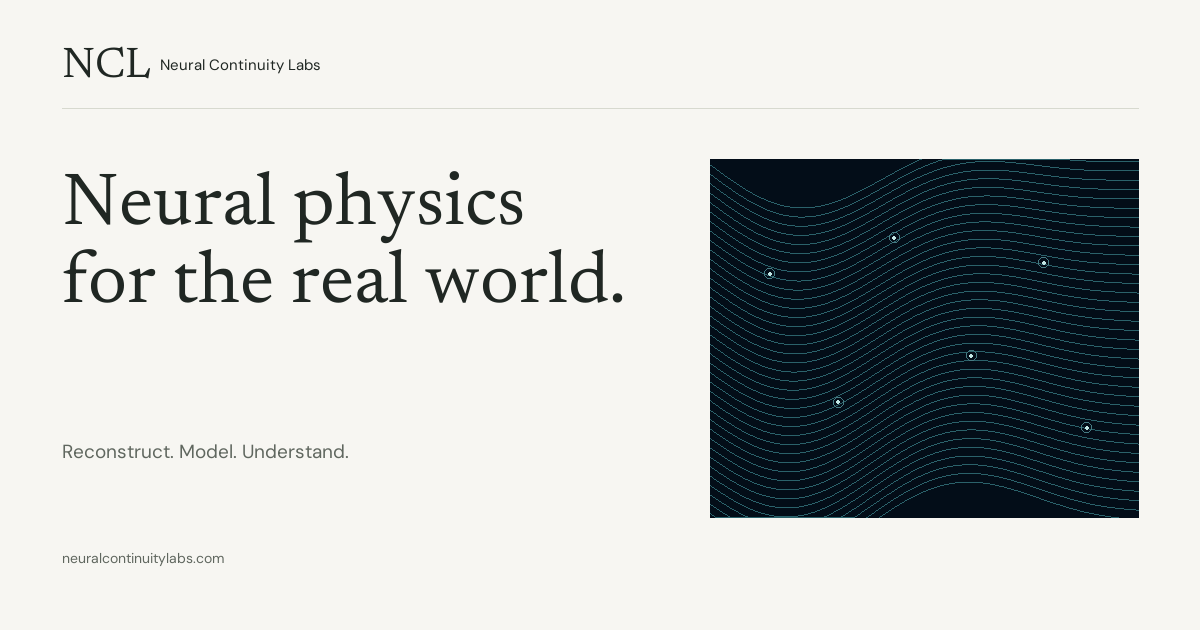
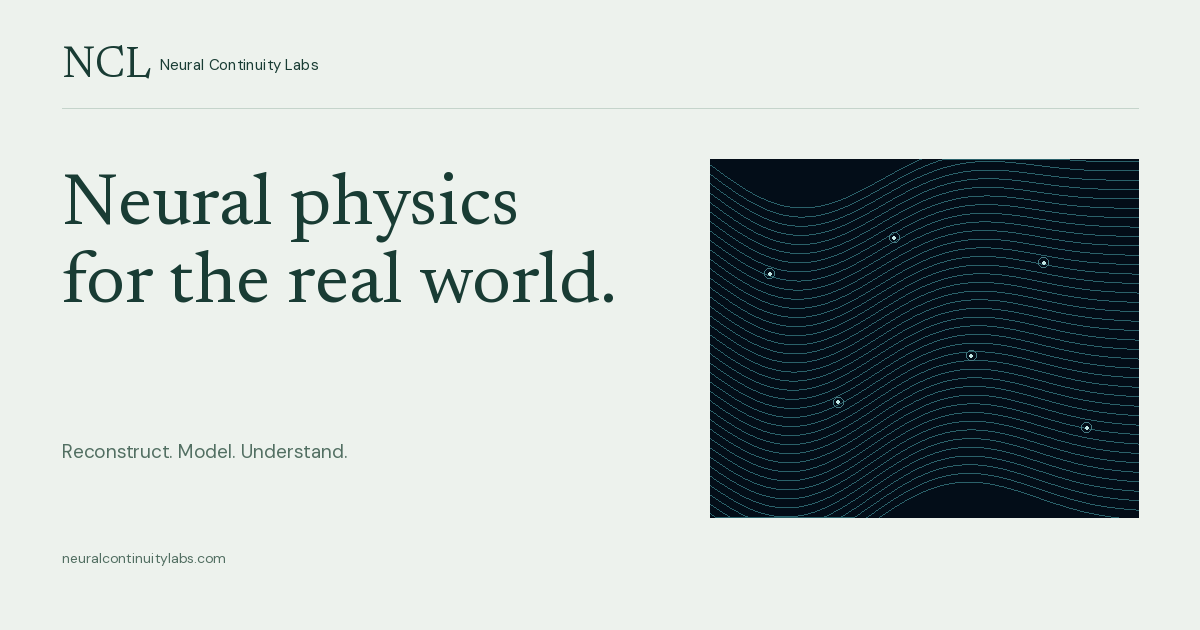
Apply selected Mineral design across the NCL website

diff --git a/index.html b/index.html
@@ -1,6 +1,6 @@
 <!doctype html>
 <!-- Generated by npm run build. Edit templates/ or content/notes/. -->
-<html lang="en"><head><meta charset="utf-8"><meta name="viewport" content="width=device-width, initial-scale=1"><title>Neural Continuity Labs | Neural physics for the real world</title><meta name="description" content="We develop neural methods to reconstruct, model, and understand physical systems."><meta name="theme-color" content="#F7F6F2"><link rel="canonical" href="https://neuralcontinuitylabs.com/"><link rel="icon" href="/favicon.svg" type="image/svg+xml">
+<html lang="en"><head><meta charset="utf-8"><meta name="viewport" content="width=device-width, initial-scale=1"><title>Neural Continuity Labs | Neural physics for the real world</title><meta name="description" content="We develop neural methods to reconstruct, model, and understand physical systems."><meta name="theme-color" content="#EDF2ED"><link rel="canonical" href="https://neuralcontinuitylabs.com/"><link rel="icon" href="/favicon.svg" type="image/svg+xml">
 <link rel="alternate" hreflang="en" href="https://neuralcontinuitylabs.com/?lang=en">
 <link rel="alternate" hreflang="fr" href="https://neuralcontinuitylabs.com/?lang=fr">
 <link rel="alternate" hreflang="de" href="https://neuralcontinuitylabs.com/?lang=de">
@@ -25,7 +25,7 @@
     </div>
   </div>
 </section>
-<div class="wrap">
+<div class="field-wrap">
   <div
     class="field-shell"
     role="img"
@@ -43,14 +43,17 @@
     />
     <canvas id="field" aria-hidden="true"></canvas>
   </div>
+</div>
+<div class="wrap">
   <section class="lab-notes" aria-labelledby="notes-title">
     <div>
       <h2 id="notes-title" data-i18n="notes.title">Notes from the Lab</h2>
-      <p class="section-intro" data-i18n="notes.intro">
-        Questions, experiments, and things we are learning.
-      </p>
+
     </div>
-    <ol class="note-list"><li class="note-row"><a href="/notes/why-ncl-exists/"><div lang="en"><h3>Neural Continuity Labs</h3><p>Discovering what neural physics looks like, from the bottom up.</p></div><span class="arrow" aria-hidden="true">↗</span></a></li><li class="note-row"><a href="/notes/physics-as-neural-turing-computation/"><div lang="en"><h3>Neural Field Computations</h3><p>Learning how a physical field changes through local updates.</p></div><span class="arrow" aria-hidden="true">↗</span></a></li><li class="note-row"><a href="/notes/neural-continuity/"><div lang="en"><h3>Neural Continuity</h3><p>A continuous description of the world, represented and learned on finite hardware.</p></div><span class="arrow" aria-hidden="true">↗</span></a></li></ol>
+    <div>
+      <ol class="note-list"><li class="note-row"><a href="/notes/can-a-machine-rediscover-keplers-laws/"><div lang="en"><h3>Can neural nets discover physical laws?</h3><p>Planetary observations offer a first test of discovering laws from limited data.</p></div><span class="arrow" aria-hidden="true">↗</span></a></li></ol>
+      <a class="notebook-link" href="/notes/" data-i18n="notes.all">All notes</a>
+    </div>
   </section>
 </div>
 </main><footer class="footer"><div class="wrap"><div><p class="footer-brand">Neural Continuity Labs</p><p class="footer-context" data-i18n="footer.context">Independent research in neural methods for physical systems.</p><p class="footer-context" data-i18n="footer.place">Paris-Saclay, France · Inria Startup Studio ecosystem</p></div><div class="footer-partners"><p class="section-label">IN MATURATION WITH</p><div class="partner-logos"><a href="https://www.inria.fr/" aria-label="Inria"><img src="/assets/partners/inria.svg" alt="Inria" width="283" height="83"></a><a href="https://www.universite-paris-saclay.fr/" aria-label="Université Paris-Saclay"><img src="/assets/partners/paris-saclay.svg" alt="Université Paris-Saclay" width="190" height="67"></a></div></div><div class="footer-right"><a class="footer-email" href="mailto:contact@neuralcontinuitylabs.com">contact@neuralcontinuitylabs.com</a><div class="footer-links"><span>© 2026 NCL</span><a href="/legal.html" data-i18n="footer.legal">Legal notice</a><a href="/legal.html#privacy" data-i18n="footer.privacy">Privacy</a></div></div></div></footer></body></html>

diff --git a/styles.css b/styles.css
@@ -21,11 +21,11 @@
 }
 :root {
   color-scheme: light;
-  --paper: #f7f6f2;
-  --ink: #202723;
-  --muted: #60675f;
-  --line: #d7d9cf;
-  --accent: #375d53;
+  --paper: #edf2ed;
+  --ink: #193c34;
+  --muted: #526f62;
+  --line: #c5d4cb;
+  --accent: #286a52;
   --night: #030d18;
   --serif: Newsreader, Georgia, serif;
   --sans: "DM Sans", Arial, sans-serif;
@@ -530,7 +530,7 @@ h1 {
 .prose pre {
   font: 12px/1.7 var(--mono);
   padding: 22px;
-  background: #eeeee7;
+  background: #e4ebe5;
   overflow: auto;
 }
 .prose code {
@@ -639,7 +639,7 @@ textarea:focus {
   color: #9b3c32;
 }
 .status.ok {
-  color: #375d53;
+  color: #286a52;
 }
 .legal-body {
   max-width: 700px;
@@ -1019,4 +1019,40 @@ textarea:focus {
     width: 98px;
     max-width: 98px;
   }
+}
+
+/* Mineral: compact introduction, panoramic field, one featured research note. */
+.brand .mark { color: var(--accent); }
+.text-link { color: var(--accent); border-color: currentColor; }
+.hero { padding: 44px 0 38px; }
+.hero-inner { grid-template-columns: 1.3fr 1fr; gap: 70px; align-items: start; }
+.hero h1 { font-size: clamp(49px, 4.3vw, 64px); line-height: 1.04; max-width: 680px; }
+.hero-copy { display: flex; align-items: end; justify-content: space-between; gap: 30px; padding: 4px 0 0; }
+.hero-copy p { font-size: 14px; line-height: 1.75; color: var(--ink); max-width: 300px; margin: 0; }
+.hero-copy .text-link { flex-shrink: 0; font-size: 11px; gap: 16px; }
+.field-wrap { width: min(1440px, 100%); margin-inline: auto; }
+.field-wrap .field-shell { aspect-ratio: 2.38; }
+.lab-notes { padding: 46px 0 52px; }
+.lab-notes h2 { font: 10px/1.6 var(--mono); letter-spacing: .08em; text-transform: uppercase; color: var(--muted); }
+.lab-notes .note-row { border: 0; }
+.lab-notes .note-row > a { display: block; padding: 0; }
+.lab-notes .note-row h3 { font-size: 35px; max-width: 620px; }
+.lab-notes .note-row .arrow { display: none; }
+.notebook-link { display: inline-block; font-size: 11px; color: var(--accent); margin-top: 16px; }
+@media (min-width: 1600px) { .hero { padding-top: 50px; } }
+@media (max-width: 1100px) {
+  .hero-inner { gap: 40px; }
+  .hero-copy { display: block; }
+  .hero-copy p { max-width: 350px; }
+  .hero-copy .text-link { margin-top: 18px; }
+}
+@media (max-width: 760px) {
+  .hero { padding: 34px 0 32px; }
+  .hero h1 { font-size: clamp(46px, 10.5vw, 65px); }
+  .hero-copy { padding-top: 23px; }
+  .hero-copy p { font-size: 15px; max-width: 390px; }
+  .field-wrap .field-shell { margin: 0; aspect-ratio: 1.35; }
+  .lab-notes { padding: 34px 0 40px; }
+  .lab-notes h2 { margin-bottom: 23px; }
+  .lab-notes .note-row h3 { font-size: 31px; }
 }

diff --git a/notes/can-a-machine-rediscover-keplers-laws/index.html b/notes/can-a-machine-rediscover-keplers-laws/index.html
@@ -1,6 +1,6 @@
 <!doctype html>
 <!-- Generated by npm run build. Edit templates/ or content/notes/. -->
-<html lang="en"><head><meta charset="utf-8"><meta name="viewport" content="width=device-width, initial-scale=1"><title>Can neural nets discover physical laws? | Notes from the Lab</title><meta name="description" content="Planetary observations offer a first test of discovering laws from limited data."><meta name="theme-color" content="#F7F6F2"><link rel="canonical" href="https://neuralcontinuitylabs.com/notes/can-a-machine-rediscover-keplers-laws/"><link rel="icon" href="/favicon.svg" type="image/svg+xml">
+<html lang="en"><head><meta charset="utf-8"><meta name="viewport" content="width=device-width, initial-scale=1"><title>Can neural nets discover physical laws? | Notes from the Lab</title><meta name="description" content="Planetary observations offer a first test of discovering laws from limited data."><meta name="theme-color" content="#EDF2ED"><link rel="canonical" href="https://neuralcontinuitylabs.com/notes/can-a-machine-rediscover-keplers-laws/"><link rel="icon" href="/favicon.svg" type="image/svg+xml">
 
 <meta property="og:type" content="article"><meta property="og:site_name" content="Neural Continuity Labs"><meta property="og:title" content="Can neural nets discover physical laws? | Notes from the Lab"><meta property="og:description" content="Planetary observations offer a first test of discovering laws from limited data."><meta property="og:url" content="https://neuralcontinuitylabs.com/notes/can-a-machine-rediscover-keplers-laws/"><meta property="og:image" content="https://neuralcontinuitylabs.com/assets/og.png"><meta property="og:image:width" content="1200"><meta property="og:image:height" content="630"><meta name="twitter:card" content="summary_large_image">
 <link rel="preload" href="/assets/fonts/newsreader.ttf" as="font" type="font/ttf" crossorigin><link rel="stylesheet" href="/styles.css"><script src="/i18n.js" defer></script><script src="/site.js" defer></script></head>

diff --git a/notes/neural-continuity/index.html b/notes/neural-continuity/index.html
@@ -1,6 +1,6 @@
 <!doctype html>
 <!-- Generated by npm run build. Edit templates/ or content/notes/. -->
-<html lang="en"><head><meta charset="utf-8"><meta name="viewport" content="width=device-width, initial-scale=1"><title>Neural Continuity | Notes from the Lab</title><meta name="description" content="A continuous description of the world, represented and learned on finite hardware."><meta name="theme-color" content="#F7F6F2"><link rel="canonical" href="https://neuralcontinuitylabs.com/notes/neural-continuity/"><link rel="icon" href="/favicon.svg" type="image/svg+xml">
+<html lang="en"><head><meta charset="utf-8"><meta name="viewport" content="width=device-width, initial-scale=1"><title>Neural Continuity | Notes from the Lab</title><meta name="description" content="A continuous description of the world, represented and learned on finite hardware."><meta name="theme-color" content="#EDF2ED"><link rel="canonical" href="https://neuralcontinuitylabs.com/notes/neural-continuity/"><link rel="icon" href="/favicon.svg" type="image/svg+xml">
 
 <meta property="og:type" content="article"><meta property="og:site_name" content="Neural Continuity Labs"><meta property="og:title" content="Neural Continuity | Notes from the Lab"><meta property="og:description" content="A continuous description of the world, represented and learned on finite hardware."><meta property="og:url" content="https://neuralcontinuitylabs.com/notes/neural-continuity/"><meta property="og:image" content="https://neuralcontinuitylabs.com/assets/og.png"><meta property="og:image:width" content="1200"><meta property="og:image:height" content="630"><meta name="twitter:card" content="summary_large_image">
 <link rel="preload" href="/assets/fonts/newsreader.ttf" as="font" type="font/ttf" crossorigin><link rel="stylesheet" href="/styles.css"><link rel="stylesheet" href="/assets/math/katex.min.css"><script src="/i18n.js" defer></script><script src="/site.js" defer></script></head>

diff --git a/notes/physics-as-neural-turing-computation/index.html b/notes/physics-as-neural-turing-computation/index.html
@@ -1,6 +1,6 @@
 <!doctype html>
 <!-- Generated by npm run build. Edit templates/ or content/notes/. -->
-<html lang="en"><head><meta charset="utf-8"><meta name="viewport" content="width=device-width, initial-scale=1"><title>Neural Field Computations | Notes from the Lab</title><meta name="description" content="Learning how a physical field changes through local updates."><meta name="theme-color" content="#F7F6F2"><link rel="canonical" href="https://neuralcontinuitylabs.com/notes/physics-as-neural-turing-computation/"><link rel="icon" href="/favicon.svg" type="image/svg+xml">
+<html lang="en"><head><meta charset="utf-8"><meta name="viewport" content="width=device-width, initial-scale=1"><title>Neural Field Computations | Notes from the Lab</title><meta name="description" content="Learning how a physical field changes through local updates."><meta name="theme-color" content="#EDF2ED"><link rel="canonical" href="https://neuralcontinuitylabs.com/notes/physics-as-neural-turing-computation/"><link rel="icon" href="/favicon.svg" type="image/svg+xml">
 
 <meta property="og:type" content="article"><meta property="og:site_name" content="Neural Continuity Labs"><meta property="og:title" content="Neural Field Computations | Notes from the Lab"><meta property="og:description" content="Learning how a physical field changes through local updates."><meta property="og:url" content="https://neuralcontinuitylabs.com/notes/physics-as-neural-turing-computation/"><meta property="og:image" content="https://neuralcontinuitylabs.com/assets/og.png"><meta property="og:image:width" content="1200"><meta property="og:image:height" content="630"><meta name="twitter:card" content="summary_large_image">
 <link rel="preload" href="/assets/fonts/newsreader.ttf" as="font" type="font/ttf" crossorigin><link rel="stylesheet" href="/styles.css"><script src="/i18n.js" defer></script><script src="/site.js" defer></script></head>

diff --git a/notes/why-ncl-exists/index.html b/notes/why-ncl-exists/index.html
@@ -1,6 +1,6 @@
 <!doctype html>
 <!-- Generated by npm run build. Edit templates/ or content/notes/. -->
-<html lang="en"><head><meta charset="utf-8"><meta name="viewport" content="width=device-width, initial-scale=1"><title>Neural Continuity Labs | Notes from the Lab</title><meta name="description" content="Discovering what neural physics looks like, from the bottom up."><meta name="theme-color" content="#F7F6F2"><link rel="canonical" href="https://neuralcontinuitylabs.com/notes/why-ncl-exists/"><link rel="icon" href="/favicon.svg" type="image/svg+xml">
+<html lang="en"><head><meta charset="utf-8"><meta name="viewport" content="width=device-width, initial-scale=1"><title>Neural Continuity Labs | Notes from the Lab</title><meta name="description" content="Discovering what neural physics looks like, from the bottom up."><meta name="theme-color" content="#EDF2ED"><link rel="canonical" href="https://neuralcontinuitylabs.com/notes/why-ncl-exists/"><link rel="icon" href="/favicon.svg" type="image/svg+xml">
 
 <meta property="og:type" content="article"><meta property="og:site_name" content="Neural Continuity Labs"><meta property="og:title" content="Neural Continuity Labs | Notes from the Lab"><meta property="og:description" content="Discovering what neural physics looks like, from the bottom up."><meta property="og:url" content="https://neuralcontinuitylabs.com/notes/why-ncl-exists/"><meta property="og:image" content="https://neuralcontinuitylabs.com/assets/og.png"><meta property="og:image:width" content="1200"><meta property="og:image:height" content="630"><meta name="twitter:card" content="summary_large_image">
 <link rel="preload" href="/assets/fonts/newsreader.ttf" as="font" type="font/ttf" crossorigin><link rel="stylesheet" href="/styles.css"><script src="/i18n.js" defer></script><script src="/site.js" defer></script></head>

diff --git a/research.html b/research.html
@@ -1,6 +1,6 @@
 <!doctype html>
 <!-- Generated by npm run build. Edit templates/ or content/notes/. -->
-<html lang="en"><head><meta charset="utf-8"><meta name="viewport" content="width=device-width, initial-scale=1"><title>Research | Neural Continuity Labs</title><meta name="description" content="Publications, benchmarks, and software investigating how neural systems learn transferable physical structure."><meta name="theme-color" content="#F7F6F2"><link rel="canonical" href="https://neuralcontinuitylabs.com/research.html"><link rel="icon" href="/favicon.svg" type="image/svg+xml">
+<html lang="en"><head><meta charset="utf-8"><meta name="viewport" content="width=device-width, initial-scale=1"><title>Research | Neural Continuity Labs</title><meta name="description" content="Publications, benchmarks, and software investigating how neural systems learn transferable physical structure."><meta name="theme-color" content="#EDF2ED"><link rel="canonical" href="https://neuralcontinuitylabs.com/research.html"><link rel="icon" href="/favicon.svg" type="image/svg+xml">
 <link rel="alternate" hreflang="en" href="https://neuralcontinuitylabs.com/research.html?lang=en">
 <link rel="alternate" hreflang="fr" href="https://neuralcontinuitylabs.com/research.html?lang=fr">
 <link rel="alternate" hreflang="de" href="https://neuralcontinuitylabs.com/research.html?lang=de">

diff --git a/contact.html b/contact.html
@@ -1,6 +1,6 @@
 <!doctype html>
 <!-- Generated by npm run build. Edit templates/ or content/notes/. -->
-<html lang="en"><head><meta charset="utf-8"><meta name="viewport" content="width=device-width, initial-scale=1"><title>Contact | Neural Continuity Labs</title><meta name="description" content="Conversations about research, industrial observability, and physical modeling. Contact Neural Continuity Labs."><meta name="theme-color" content="#F7F6F2"><link rel="canonical" href="https://neuralcontinuitylabs.com/contact.html"><link rel="icon" href="/favicon.svg" type="image/svg+xml">
+<html lang="en"><head><meta charset="utf-8"><meta name="viewport" content="width=device-width, initial-scale=1"><title>Contact | Neural Continuity Labs</title><meta name="description" content="Conversations about research, industrial observability, and physical modeling. Contact Neural Continuity Labs."><meta name="theme-color" content="#EDF2ED"><link rel="canonical" href="https://neuralcontinuitylabs.com/contact.html"><link rel="icon" href="/favicon.svg" type="image/svg+xml">
 <link rel="alternate" hreflang="en" href="https://neuralcontinuitylabs.com/contact.html?lang=en">
 <link rel="alternate" hreflang="fr" href="https://neuralcontinuitylabs.com/contact.html?lang=fr">
 <link rel="alternate" hreflang="de" href="https://neuralcontinuitylabs.com/contact.html?lang=de">

diff --git a/legal.html b/legal.html
@@ -1,6 +1,6 @@
 <!doctype html>
 <!-- Generated by npm run build. Edit templates/ or content/notes/. -->
-<html lang="en"><head><meta charset="utf-8"><meta name="viewport" content="width=device-width, initial-scale=1"><title>Legal notice | Neural Continuity Labs</title><meta name="description" content="Legal and privacy information for Neural Continuity Labs."><meta name="theme-color" content="#F7F6F2"><meta name="robots" content="noindex"><link rel="canonical" href="https://neuralcontinuitylabs.com/legal.html"><link rel="icon" href="/favicon.svg" type="image/svg+xml">
+<html lang="en"><head><meta charset="utf-8"><meta name="viewport" content="width=device-width, initial-scale=1"><title>Legal notice | Neural Continuity Labs</title><meta name="description" content="Legal and privacy information for Neural Continuity Labs."><meta name="theme-color" content="#EDF2ED"><meta name="robots" content="noindex"><link rel="canonical" href="https://neuralcontinuitylabs.com/legal.html"><link rel="icon" href="/favicon.svg" type="image/svg+xml">
 <link rel="alternate" hreflang="en" href="https://neuralcontinuitylabs.com/legal.html?lang=en">
 <link rel="alternate" hreflang="fr" href="https://neuralcontinuitylabs.com/legal.html?lang=fr">
 <link rel="alternate" hreflang="de" href="https://neuralcontinuitylabs.com/legal.html?lang=de">

diff --git a/notes/index.html b/notes/index.html
@@ -1,6 +1,6 @@
 <!doctype html>
 <!-- Generated by npm run build. Edit templates/ or content/notes/. -->
-<html lang="en"><head><meta charset="utf-8"><meta name="viewport" content="width=device-width, initial-scale=1"><title>Notes from the Lab | Neural Continuity Labs</title><meta name="description" content="Research questions, experiments, and observations from Neural Continuity Labs."><meta name="theme-color" content="#F7F6F2"><link rel="canonical" href="https://neuralcontinuitylabs.com/notes/"><link rel="icon" href="/favicon.svg" type="image/svg+xml">
+<html lang="en"><head><meta charset="utf-8"><meta name="viewport" content="width=device-width, initial-scale=1"><title>Notes from the Lab | Neural Continuity Labs</title><meta name="description" content="Research questions, experiments, and observations from Neural Continuity Labs."><meta name="theme-color" content="#EDF2ED"><link rel="canonical" href="https://neuralcontinuitylabs.com/notes/"><link rel="icon" href="/favicon.svg" type="image/svg+xml">
 <link rel="alternate" hreflang="en" href="https://neuralcontinuitylabs.com/notes/?lang=en">
 <link rel="alternate" hreflang="fr" href="https://neuralcontinuitylabs.com/notes/?lang=fr">
 <link rel="alternate" hreflang="de" href="https://neuralcontinuitylabs.com/notes/?lang=de">

diff --git a/404.html b/404.html
@@ -1,6 +1,6 @@
 <!doctype html>
 <!-- Generated by npm run build. Edit templates/ or content/notes/. -->
-<html lang="en"><head><meta charset="utf-8"><meta name="viewport" content="width=device-width, initial-scale=1"><title>Page not found | Neural Continuity Labs</title><meta name="description" content="This page could not be found."><meta name="theme-color" content="#F7F6F2"><meta name="robots" content="noindex"><link rel="canonical" href="https://neuralcontinuitylabs.com/404.html"><link rel="icon" href="/favicon.svg" type="image/svg+xml">
+<html lang="en"><head><meta charset="utf-8"><meta name="viewport" content="width=device-width, initial-scale=1"><title>Page not found | Neural Continuity Labs</title><meta name="description" content="This page could not be found."><meta name="theme-color" content="#EDF2ED"><meta name="robots" content="noindex"><link rel="canonical" href="https://neuralcontinuitylabs.com/404.html"><link rel="icon" href="/favicon.svg" type="image/svg+xml">
 <link rel="alternate" hreflang="en" href="https://neuralcontinuitylabs.com/404.html?lang=en">
 <link rel="alternate" hreflang="fr" href="https://neuralcontinuitylabs.com/404.html?lang=fr">
 <link rel="alternate" hreflang="de" href="https://neuralcontinuitylabs.com/404.html?lang=de">

diff --git a/templates/home.html b/templates/home.html
@@ -15,7 +15,7 @@
     </div>
   </div>
 </section>
-<div class="wrap">
+<div class="field-wrap">
   <div
     class="field-shell"
     role="img"
@@ -33,13 +33,16 @@
     />
     <canvas id="field" aria-hidden="true"></canvas>
   </div>
+</div>
+<div class="wrap">
   <section class="lab-notes" aria-labelledby="notes-title">
     <div>
       <h2 id="notes-title" data-i18n="notes.title">Notes from the Lab</h2>
-      <p class="section-intro" data-i18n="notes.intro">
-        Questions, experiments, and things we are learning.
-      </p>
+
     </div>
-    {{latestNotes}}
+    <div>
+      {{featuredNote}}
+      <a class="notebook-link" href="/notes/" data-i18n="notes.all">All notes</a>
+    </div>
   </section>
 </div>
